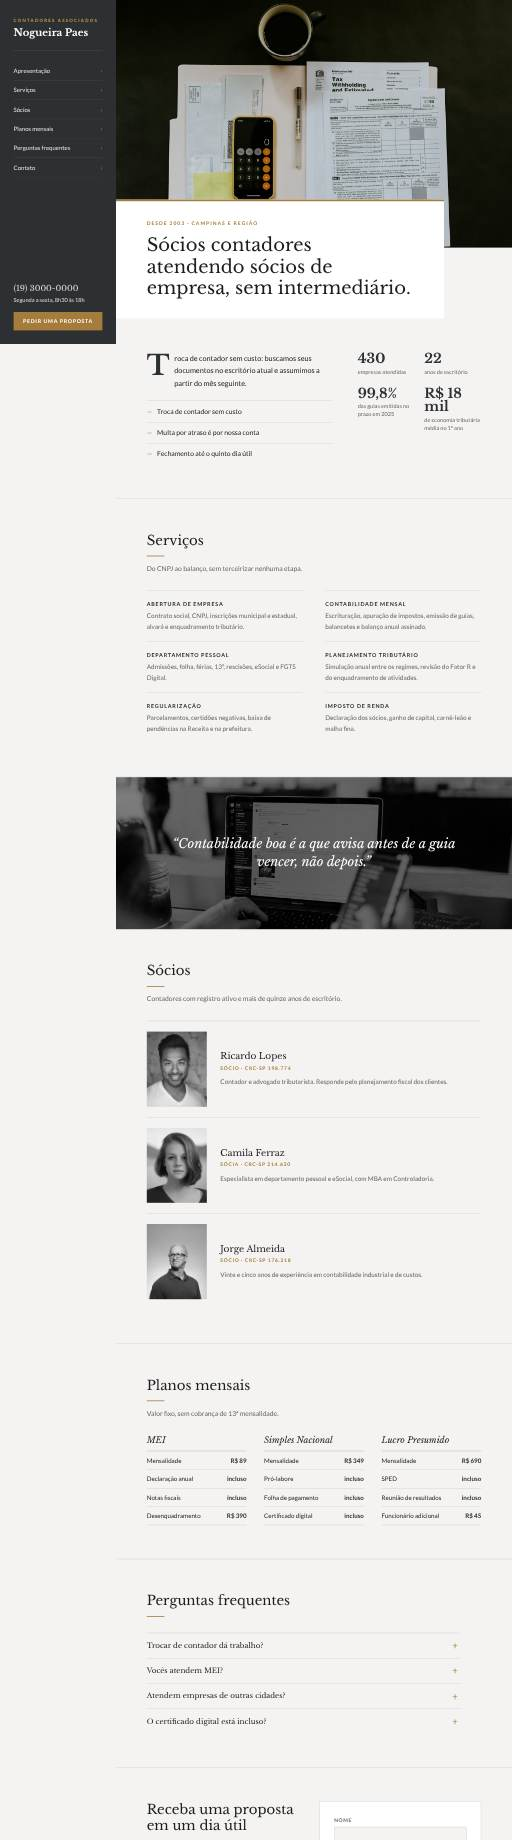
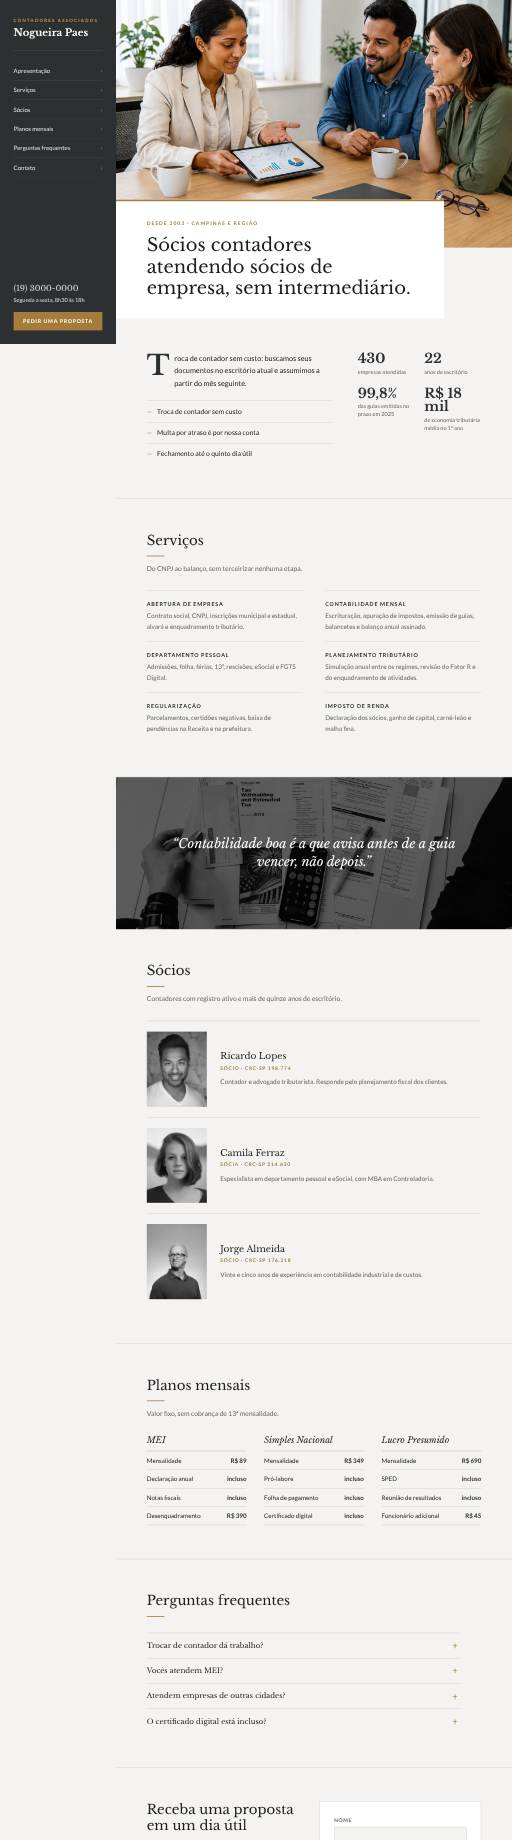
Bring contabilidade to 10 photos
Claude-Session: https://claude.ai/code/session_0151Yi9K8yWSyYvoKWm1KgPz

Changed region(s): [[0.2188, 0.0, 1.0, 0.1549], [0.2188, 0.4027, 1.0, 0.5266], [0.9688, 0.4027, 1.0, 0.4337]]

diff --git a/kolp-modelos/demo/contabilidade-08/index.html b/kolp-modelos/demo/contabilidade-08/index.html
@@ -34,17 +34,17 @@
     <p class="lide">Revisamos o seu enquadramento tributário todo ano. No primeiro, nossos clientes economizam em média R$ 18.400.</p>
     <div class="acoes"><a class="botao" href="#contato">Pedir uma proposta</a><a class="elo" href="#servicos">Ver planos e valores</a></div>
     <div class="mosaico">
-      <img class="m1" src="../../fotos/contabilidade/2.jpg" alt="" width="1400" height="930">
-      <img class="m2" src="../../fotos/contabilidade/1.jpg" alt="" width="1400" height="930">
-      <img class="m3" src="../../fotos/contabilidade/3.jpg" alt="" width="1400" height="930">
+      <img class="m1" src="../../fotos/contabilidade/9.jpg" alt="" width="1400" height="930">
+      <img class="m2" src="../../fotos/contabilidade/8.jpg" alt="" width="1400" height="930">
+      <img class="m3" src="../../fotos/contabilidade/10.jpg" alt="" width="1400" height="930">
       <p class="selo"><b>430</b>empresas atendidas</p>
     </div>
   </div></section>
   <section class="pontos"><ul class="largura"><li class="rev">Troca de contador sem custo</li><li class="rev">Multa por atraso é por nossa conta</li><li class="rev">Fechamento até o quinto dia útil</li></ul></section>
   <section class="servicos" id="servicos"><div class="largura">
     <header class="topo rev"><h2>Serviços</h2><p>Do CNPJ ao balanço, sem terceirizar nenhuma etapa.</p></header>
-    <div class="par rev"><img src="../../fotos/contabilidade/4.jpg" alt="" width="1400" height="930" loading="lazy"><ul><li><h3>Abertura de empresa</h3><p>Contrato social, CNPJ, inscrições municipal e estadual, alvará e enquadramento tributário.</p></li><li><h3>Contabilidade mensal</h3><p>Escrituração, apuração de impostos, emissão de guias, balancetes e balanço anual assinado.</p></li><li><h3>Departamento pessoal</h3><p>Admissões, folha, férias, 13º, rescisões, eSocial e FGTS Digital.</p></li></ul></div>
-    <div class="par par-inv rev"><img src="../../fotos/contabilidade/5.jpg" alt="" width="1400" height="930" loading="lazy"><ul><li><h3>Planejamento tributário</h3><p>Simulação anual entre os regimes, revisão do Fator R e do enquadramento de atividades.</p></li><li><h3>Regularização</h3><p>Parcelamentos, certidões negativas, baixa de pendências na Receita e na prefeitura.</p></li><li><h3>Imposto de renda</h3><p>Declaração dos sócios, ganho de capital, carnê-leão e malha fina.</p></li></ul></div>
+    <div class="par rev"><img src="../../fotos/contabilidade/1.jpg" alt="" width="1400" height="930" loading="lazy"><ul><li><h3>Abertura de empresa</h3><p>Contrato social, CNPJ, inscrições municipal e estadual, alvará e enquadramento tributário.</p></li><li><h3>Contabilidade mensal</h3><p>Escrituração, apuração de impostos, emissão de guias, balancetes e balanço anual assinado.</p></li><li><h3>Departamento pessoal</h3><p>Admissões, folha, férias, 13º, rescisões, eSocial e FGTS Digital.</p></li></ul></div>
+    <div class="par par-inv rev"><img src="../../fotos/contabilidade/2.jpg" alt="" width="1400" height="930" loading="lazy"><ul><li><h3>Planejamento tributário</h3><p>Simulação anual entre os regimes, revisão do Fator R e do enquadramento de atividades.</p></li><li><h3>Regularização</h3><p>Parcelamentos, certidões negativas, baixa de pendências na Receita e na prefeitura.</p></li><li><h3>Imposto de renda</h3><p>Declaração dos sócios, ganho de capital, carnê-leão e malha fina.</p></li></ul></div>
   </div></section>
   <section class="precos" id="precos"><div class="largura">
     <header class="topo rev"><h2>Planos mensais</h2><p>Valor fixo, sem cobrança de 13ª mensalidade.</p></header>

diff --git a/kolp-modelos/demo/contabilidade-07/index.html b/kolp-modelos/demo/contabilidade-07/index.html
@@ -43,7 +43,7 @@
     <header class="topo rev"><h2>Serviços</h2><p>Do CNPJ ao balanço, sem terceirizar nenhuma etapa.</p></header>
     <ol class="cartoes"><li class="rev"><h3>Abertura de empresa</h3><p>Contrato social, CNPJ, inscrições municipal e estadual, alvará e enquadramento tributário.</p></li><li class="rev"><h3>Contabilidade mensal</h3><p>Escrituração, apuração de impostos, emissão de guias, balancetes e balanço anual assinado.</p></li><li class="rev"><h3>Departamento pessoal</h3><p>Admissões, folha, férias, 13º, rescisões, eSocial e FGTS Digital.</p></li><li class="rev"><h3>Planejamento tributário</h3><p>Simulação anual entre os regimes, revisão do Fator R e do enquadramento de atividades.</p></li><li class="rev"><h3>Regularização</h3><p>Parcelamentos, certidões negativas, baixa de pendências na Receita e na prefeitura.</p></li><li class="rev"><h3>Imposto de renda</h3><p>Declaração dos sócios, ganho de capital, carnê-leão e malha fina.</p></li></ol>
   </div></section>
-  <section class="faixa rev"><img src="../../fotos/contabilidade/1.jpg" alt="" width="1400" height="930" loading="lazy"><p>“Contabilidade boa é a que avisa antes de a guia vencer, não depois.”</p></section>
+  <section class="faixa rev"><img src="../../fotos/contabilidade/8.jpg" alt="" width="1400" height="930" loading="lazy"><p>“Contabilidade boa é a que avisa antes de a guia vencer, não depois.”</p></section>
   <section class="precos" id="precos"><div class="largura precos-grade">
     <div class="precos-lado rev"><h2>Planos mensais</h2><p>Valor fixo, sem cobrança de 13ª mensalidade.</p><a class="botao" href="#contato">Pedir uma proposta</a></div>
     <div class="rev"><details open><summary>MEI</summary><ul><li><div><b>Mensalidade</b><span>Guia DAS e controle de faturamento</span></div><strong>R$ 89</strong></li><li><div><b>Declaração anual</b><span>DASN-SIMEI incluída</span></div><strong>incluso</strong></li><li><div><b>Notas fiscais</b><span>Até 10 por mês</span></div><strong>incluso</strong></li><li><div><b>Desenquadramento</b><span>Migração para ME</span></div><strong>R$ 390</strong></li></ul></details><details><summary>Simples Nacional</summary><ul><li><div><b>Mensalidade</b><span>Contábil e fiscal completos</span></div><strong>R$ 349</strong></li><li><div><b>Pró-labore</b><span>Até 2 sócios</span></div><strong>incluso</strong></li><li><div><b>Folha de pagamento</b><span>Até 3 funcionários</span></div><strong>incluso</strong></li><li><div><b>Certificado digital</b><span>e-CNPJ A1</span></div><strong>incluso</strong></li></ul></details><details><summary>Lucro Presumido</summary><ul><li><div><b>Mensalidade</b><span>A partir de</span></div><strong>R$ 690</strong></li><li><div><b>SPED</b><span>Contábil e Fiscal</span></div><strong>incluso</strong></li><li><div><b>Reunião de resultados</b><span>A cada trimestre</span></div><strong>incluso</strong></li><li><div><b>Funcionário adicional</b><span>Na folha</span></div><strong>R$ 45</strong></li></ul></details></div>

diff --git a/kolp-modelos/demo/contabilidade-10/index.html b/kolp-modelos/demo/contabilidade-10/index.html
@@ -30,7 +30,7 @@
 <div class="conteudo">
 <main>
   <section class="abertura">
-    <img src="../../fotos/contabilidade/3.jpg" alt="" width="1400" height="930">
+    <img src="../../fotos/contabilidade/10.jpg" alt="" width="1400" height="930">
     <div class="legenda"><p class="rotulo">Desde 2003 · Campinas e região</p><h1>Sócios contadores atendendo sócios de empresa, sem intermediário.</h1></div>
   </section>
   <section class="sobre" id="sobre">
@@ -41,7 +41,7 @@
     <header class="topo"><h2>Serviços</h2><p>Do CNPJ ao balanço, sem terceirizar nenhuma etapa.</p></header>
     <ul class="servicos"><li><h3>Abertura de empresa</h3><p>Contrato social, CNPJ, inscrições municipal e estadual, alvará e enquadramento tributário.</p></li><li><h3>Contabilidade mensal</h3><p>Escrituração, apuração de impostos, emissão de guias, balancetes e balanço anual assinado.</p></li><li><h3>Departamento pessoal</h3><p>Admissões, folha, férias, 13º, rescisões, eSocial e FGTS Digital.</p></li><li><h3>Planejamento tributário</h3><p>Simulação anual entre os regimes, revisão do Fator R e do enquadramento de atividades.</p></li><li><h3>Regularização</h3><p>Parcelamentos, certidões negativas, baixa de pendências na Receita e na prefeitura.</p></li><li><h3>Imposto de renda</h3><p>Declaração dos sócios, ganho de capital, carnê-leão e malha fina.</p></li></ul>
   </section>
-  <figure class="citacao"><img src="../../fotos/contabilidade/4.jpg" alt="" width="1400" height="930" loading="lazy"><blockquote>“Contabilidade boa é a que avisa antes de a guia vencer, não depois.”</blockquote></figure>
+  <figure class="citacao"><img src="../../fotos/contabilidade/1.jpg" alt="" width="1400" height="930" loading="lazy"><blockquote>“Contabilidade boa é a que avisa antes de a guia vencer, não depois.”</blockquote></figure>
   <section id="equipe">
     <header class="topo"><h2>Sócios</h2><p>Contadores com registro ativo e mais de quinze anos de escritório.</p></header>
     <div class="equipe"><article><img src="../../fotos/retratos/m4.jpg" alt="Retrato de Ricardo Lopes" width="560" height="680" loading="lazy"><div><h3>Ricardo Lopes</h3><p class="cargo">Sócio · CRC-SP 198.774</p><p>Contador e advogado tributarista. Responde pelo planejamento fiscal dos clientes.</p></div></article><article><img src="../../fotos/retratos/f4.jpg" alt="Retrato de Camila Ferraz" width="560" height="680" loading="lazy"><div><h3>Camila Ferraz</h3><p class="cargo">Sócia · CRC-SP 214.630</p><p>Especialista em departamento pessoal e eSocial, com MBA em Controladoria.</p></div></article><article><img src="../../fotos/retratos/m5.jpg" alt="Retrato de Jorge Almeida" width="560" height="680" loading="lazy"><div><h3>Jorge Almeida</h3><p class="cargo">Sócio · CRC-SP 176.218</p><p>Vinte e cinco anos de experiência em contabilidade industrial e de custos.</p></div></article></div>

diff --git a/kolp-modelos/demo/contabilidade-09/index.html b/kolp-modelos/demo/contabilidade-09/index.html
@@ -30,7 +30,7 @@
 </div></header>
 <main>
   <section class="abertura">
-    <img src="../../fotos/contabilidade/2.jpg" alt="" width="1400" height="930">
+    <img src="../../fotos/contabilidade/9.jpg" alt="" width="1400" height="930">
     <div class="abertura-bloco"><div>
       <p class="rotulo">Campinas e região</p>
       <h1>Custos, estoque e folha de fábrica sob controle rigoroso.</h1>
@@ -51,7 +51,7 @@
     <header class="topo"><h2>Planos mensais</h2><p>Valor fixo, sem cobrança de 13ª mensalidade.</p></header>
     <div class="tabela-rolagem"><table><tbody><tr class="grupo"><th colspan="3">MEI</th></tr><tr><th>Mensalidade</th><td>Guia DAS e controle de faturamento</td><td>R$ 89</td></tr><tr><th>Declaração anual</th><td>DASN-SIMEI incluída</td><td>incluso</td></tr><tr><th>Notas fiscais</th><td>Até 10 por mês</td><td>incluso</td></tr><tr><th>Desenquadramento</th><td>Migração para ME</td><td>R$ 390</td></tr></tbody><tbody><tr class="grupo"><th colspan="3">Simples Nacional</th></tr><tr><th>Mensalidade</th><td>Contábil e fiscal completos</td><td>R$ 349</td></tr><tr><th>Pró-labore</th><td>Até 2 sócios</td><td>incluso</td></tr><tr><th>Folha de pagamento</th><td>Até 3 funcionários</td><td>incluso</td></tr><tr><th>Certificado digital</th><td>e-CNPJ A1</td><td>incluso</td></tr></tbody><tbody><tr class="grupo"><th colspan="3">Lucro Presumido</th></tr><tr><th>Mensalidade</th><td>A partir de</td><td>R$ 690</td></tr><tr><th>SPED</th><td>Contábil e Fiscal</td><td>incluso</td></tr><tr><th>Reunião de resultados</th><td>A cada trimestre</td><td>incluso</td></tr><tr><th>Funcionário adicional</th><td>Na folha</td><td>R$ 45</td></tr></tbody></table></div>
   </div></section>
-  <section class="prova"><img src="../../fotos/contabilidade/3.jpg" alt="" width="1400" height="930" loading="lazy">
+  <section class="prova"><img src="../../fotos/contabilidade/10.jpg" alt="" width="1400" height="930" loading="lazy">
     <blockquote><p>“Paguei imposto a mais durante três anos sem saber. Refizeram o enquadramento da clínica e a alíquota caiu de 15,5% para 6%. Em oito meses recuperei o que tinha gasto com o escritório antigo.”</p><footer><b>Camila Rezende</b> sócia de clínica de fisioterapia, cliente desde 2021</footer></blockquote>
   </section>
   <section class="contato" id="contato"><div class="largura contato-grade">
